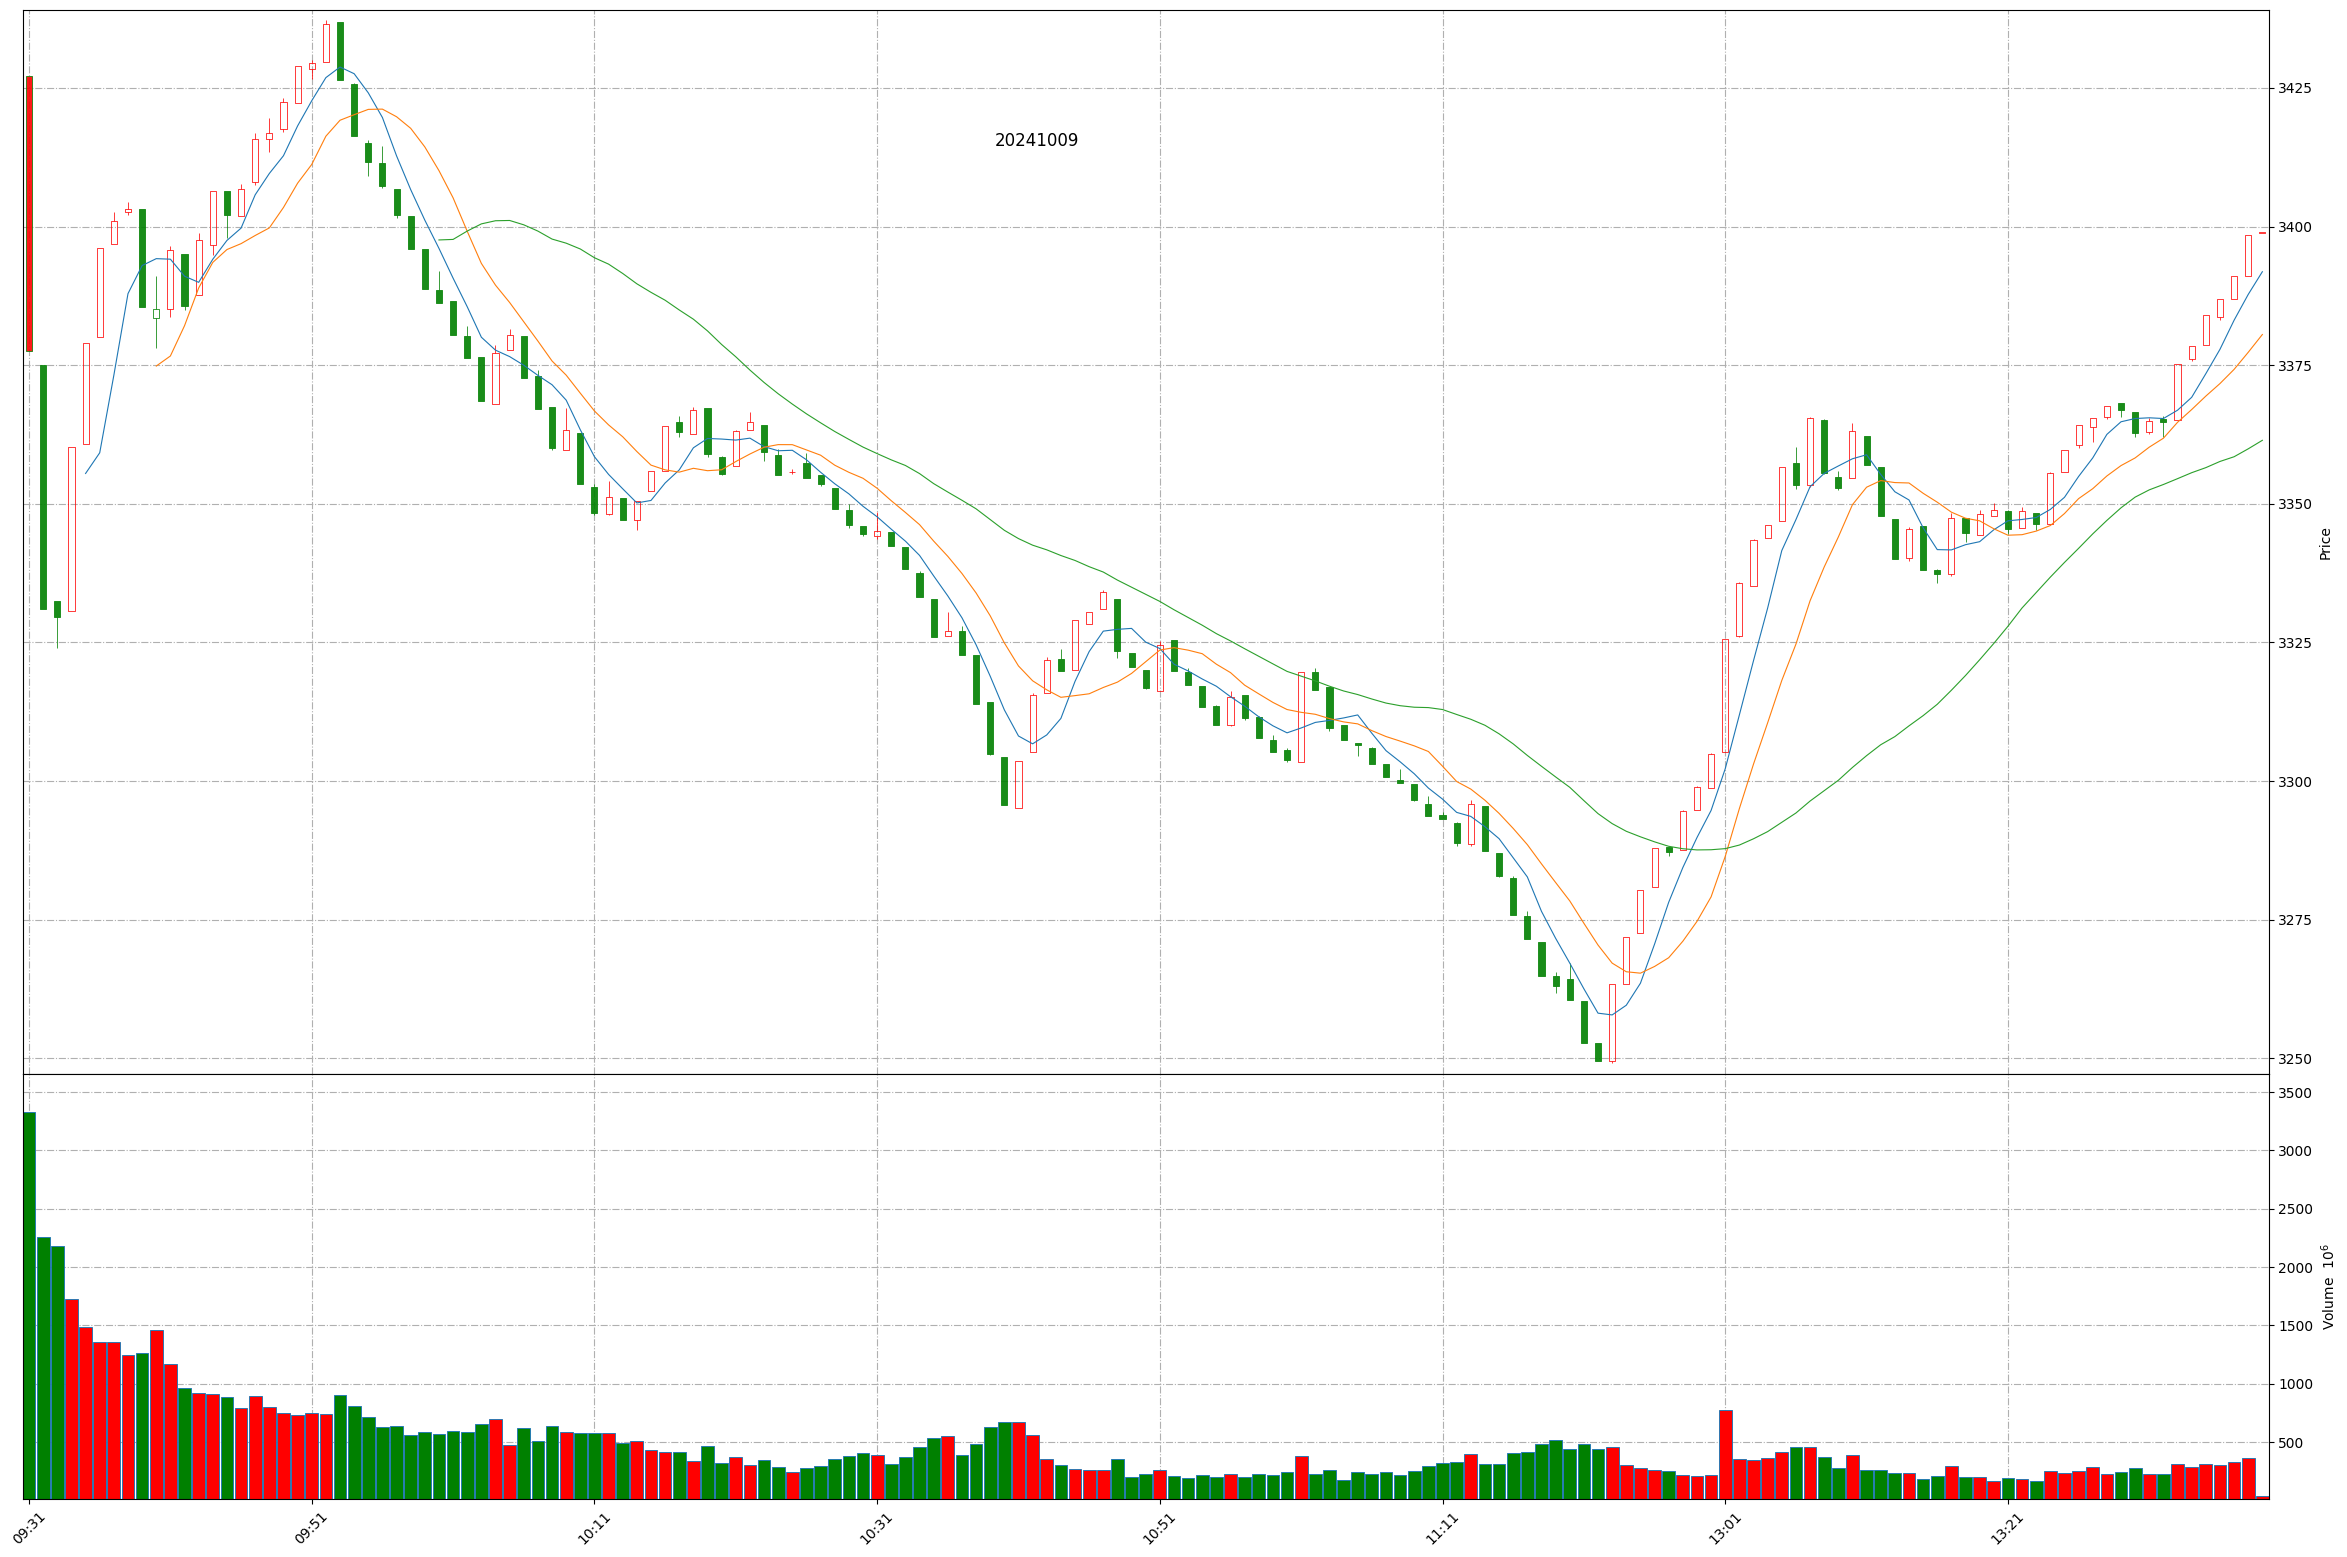
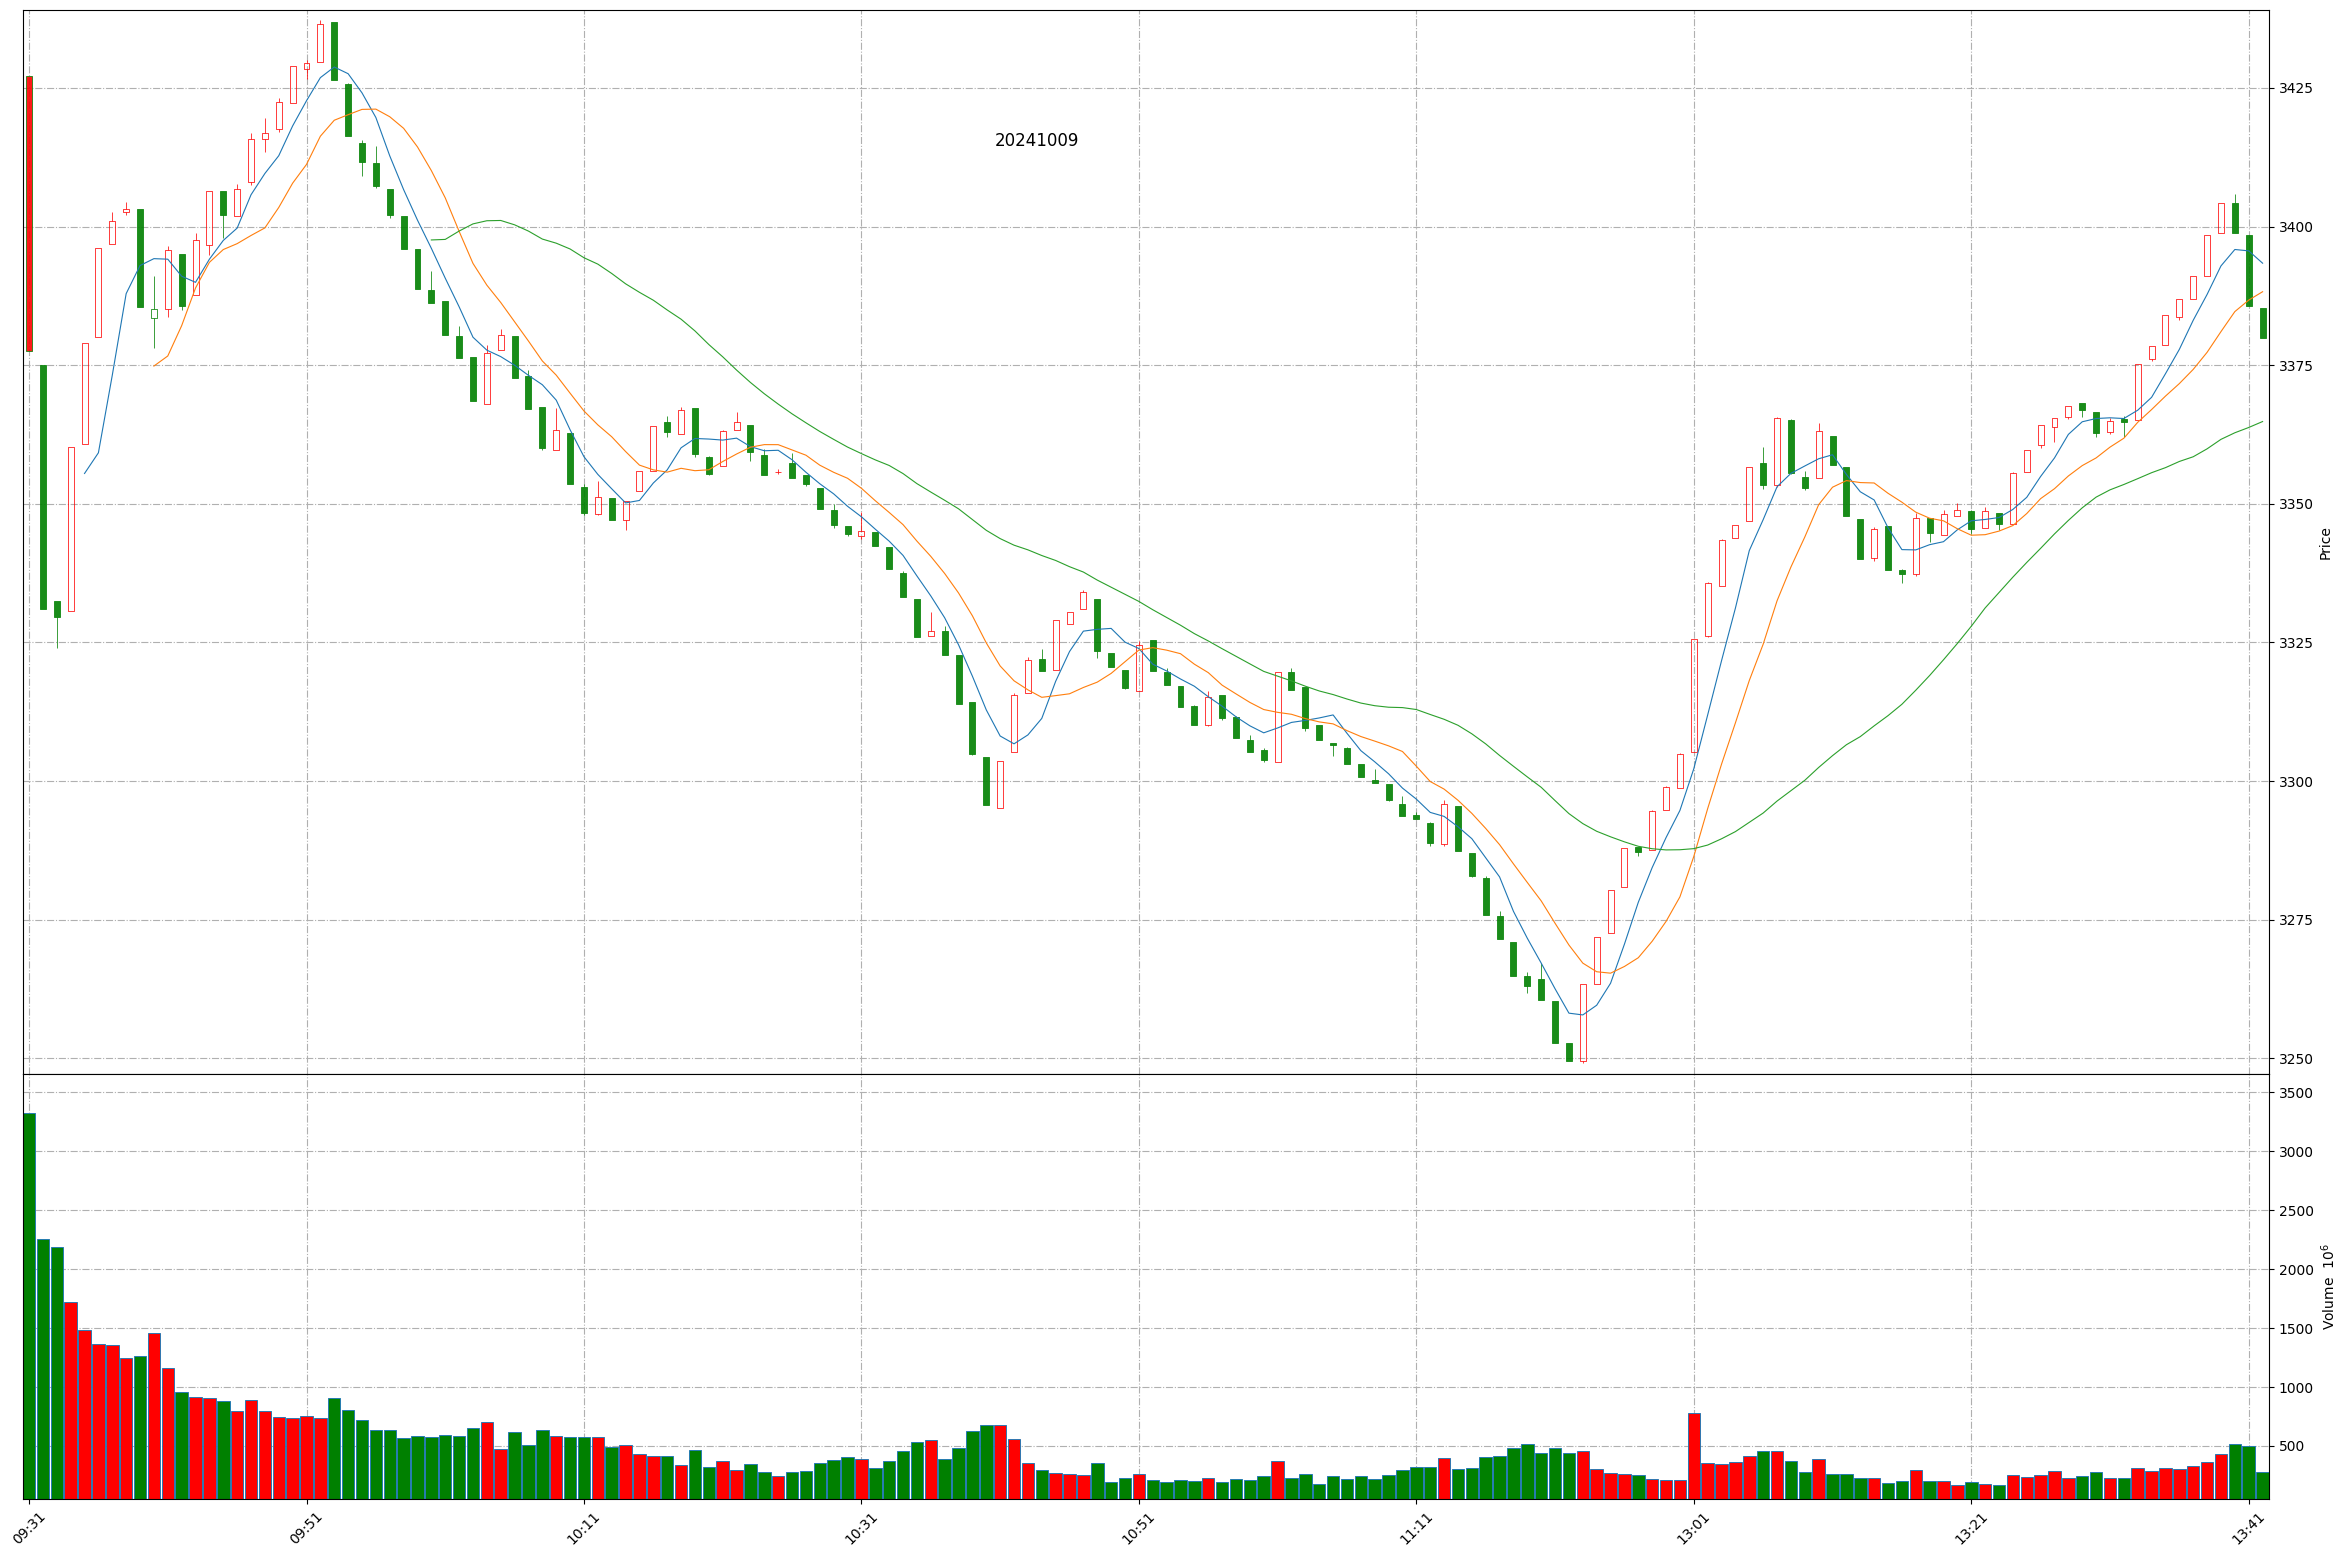
Github action update at 2024-10-09 13:42:16.

diff --git a/README.md b/README.md
@@ -1,11 +1,11 @@
 
 # Daily-A-share-market-quotes 每日 A 股指数（5min 更新）- 20241009
 
-### 上证指数 20241009 13:38
+### 上证指数 20241009 13:42
 ![](./fig/2024/10/20241009-sh000001.png)
 
-### 深证成指 20241009 13:38
+### 深证成指 20241009 13:42
 ![](./fig/2024/10/20241009-sz399001.png)
 
-### 北证50 20241009 13:38
+### 北证50 20241009 13:42
 ![](./fig/2024/10/20241009-bj899050.png)
